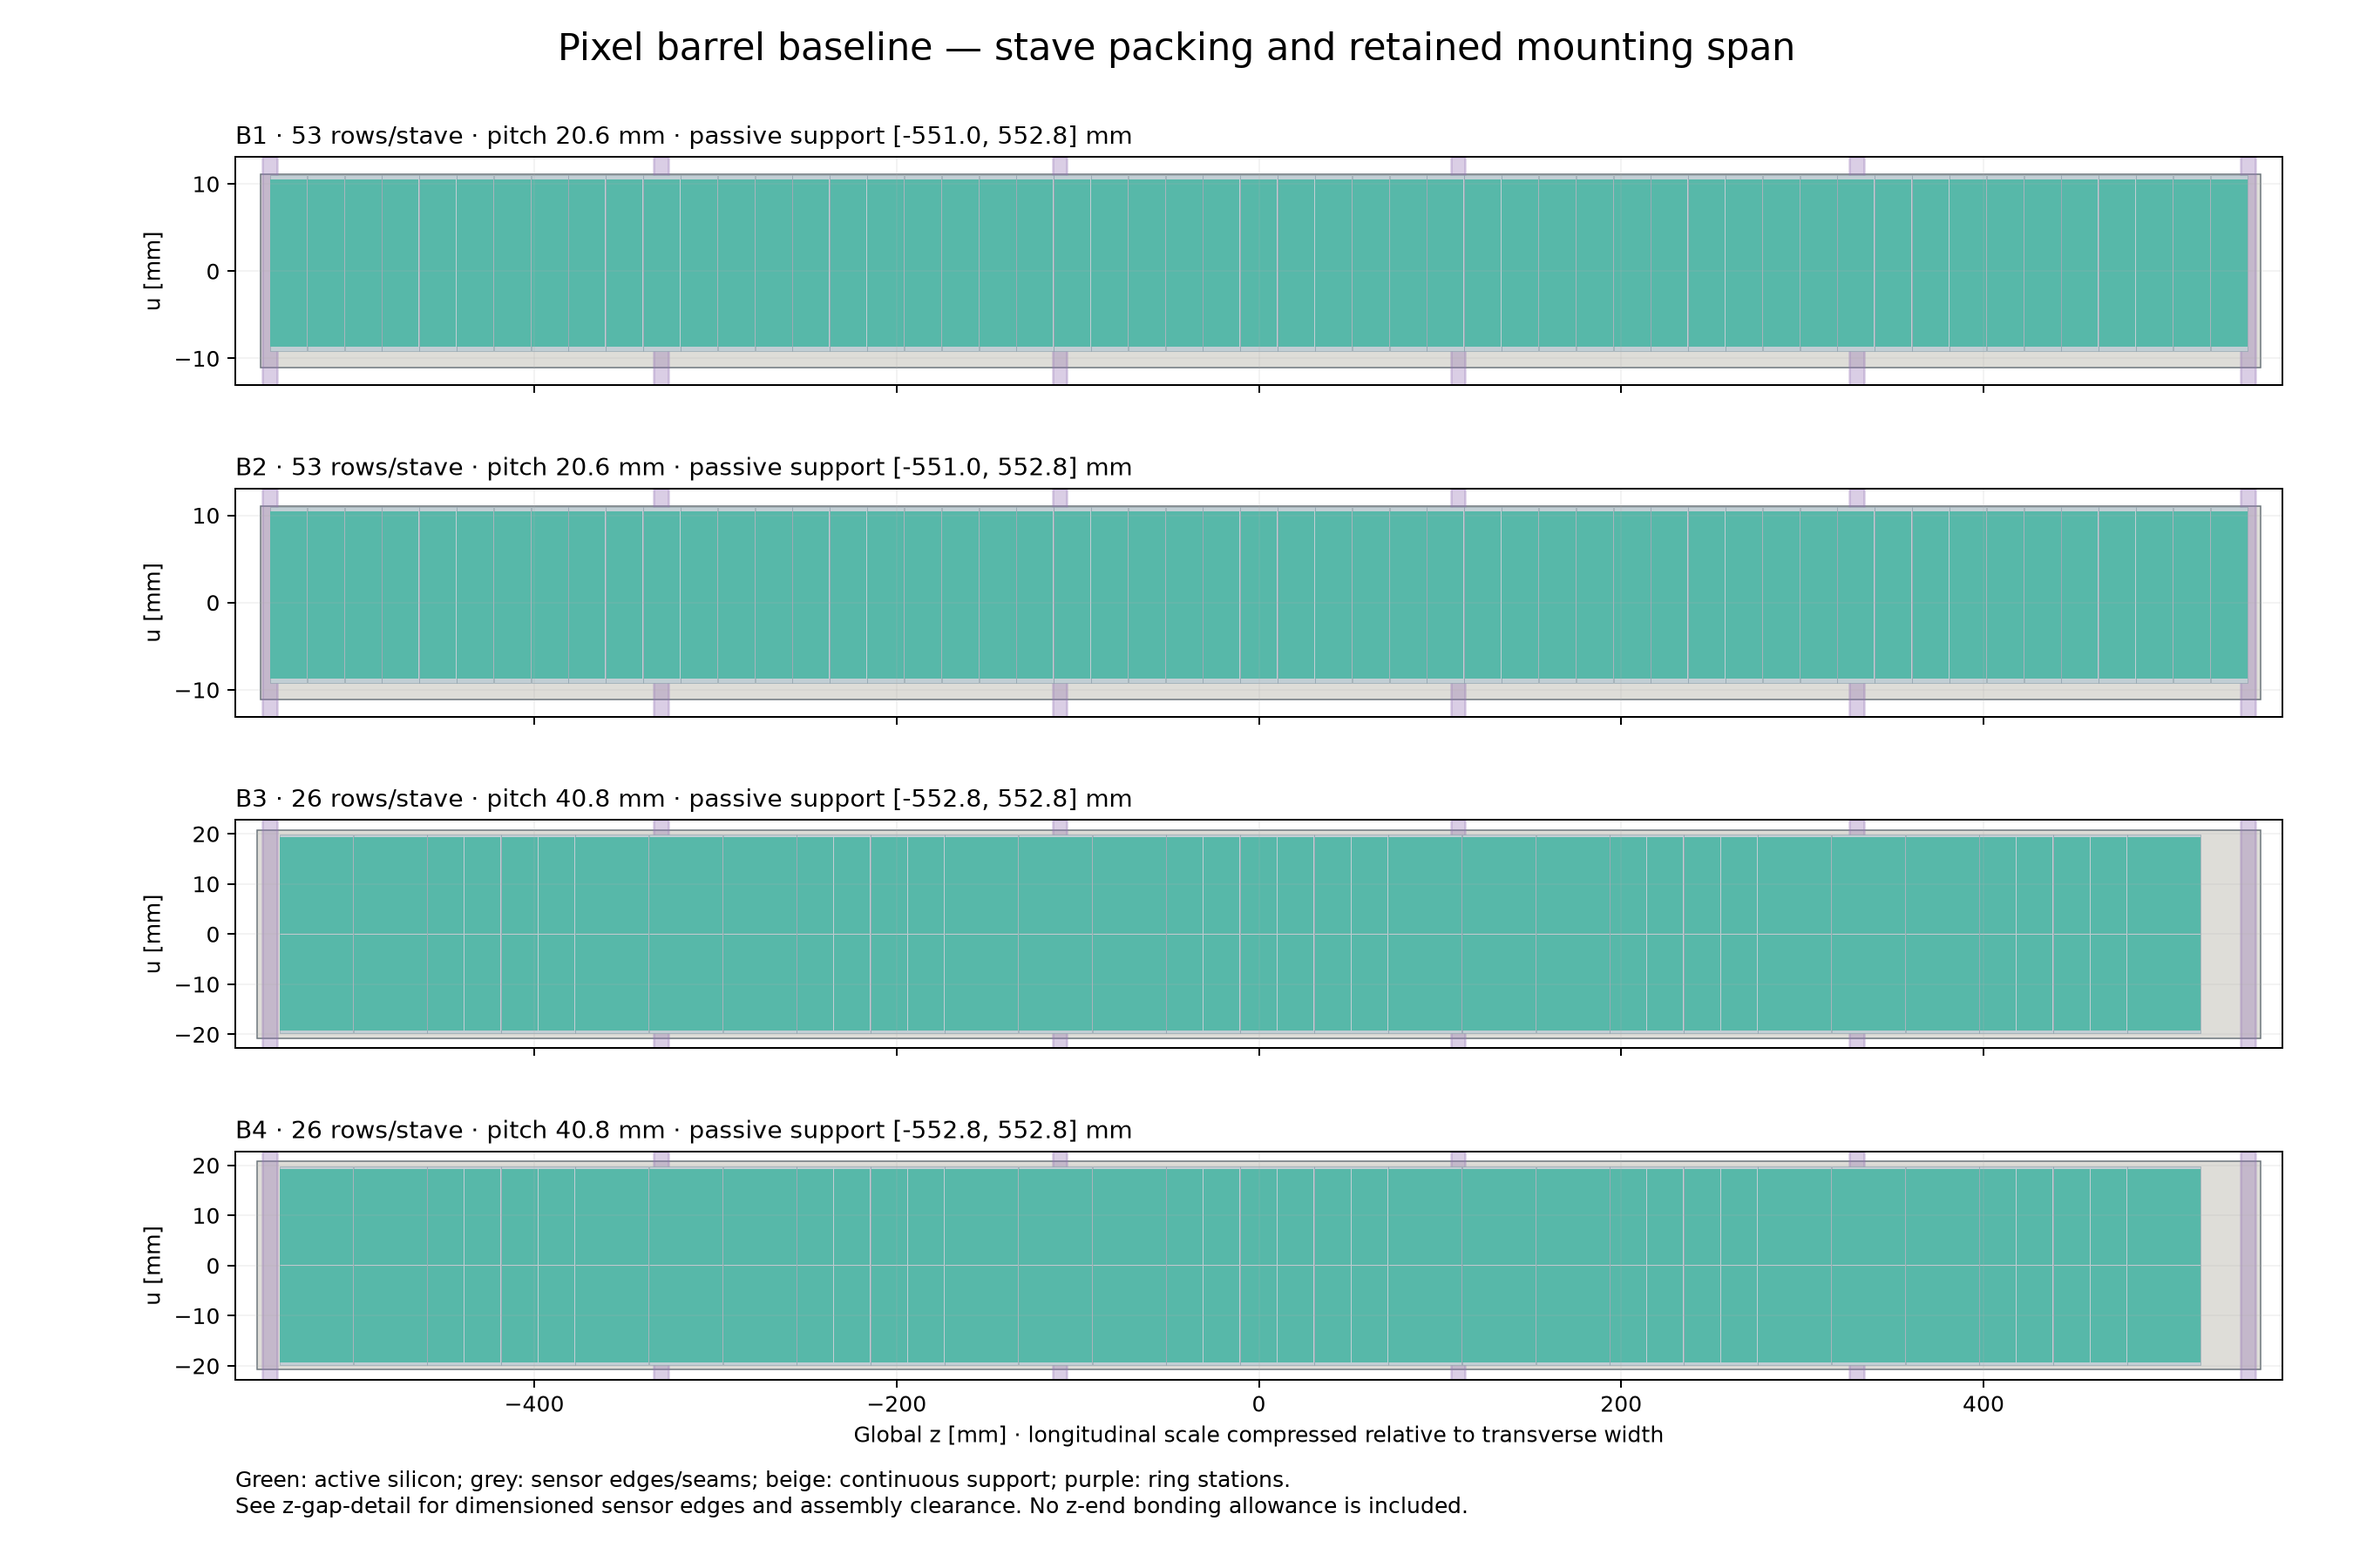
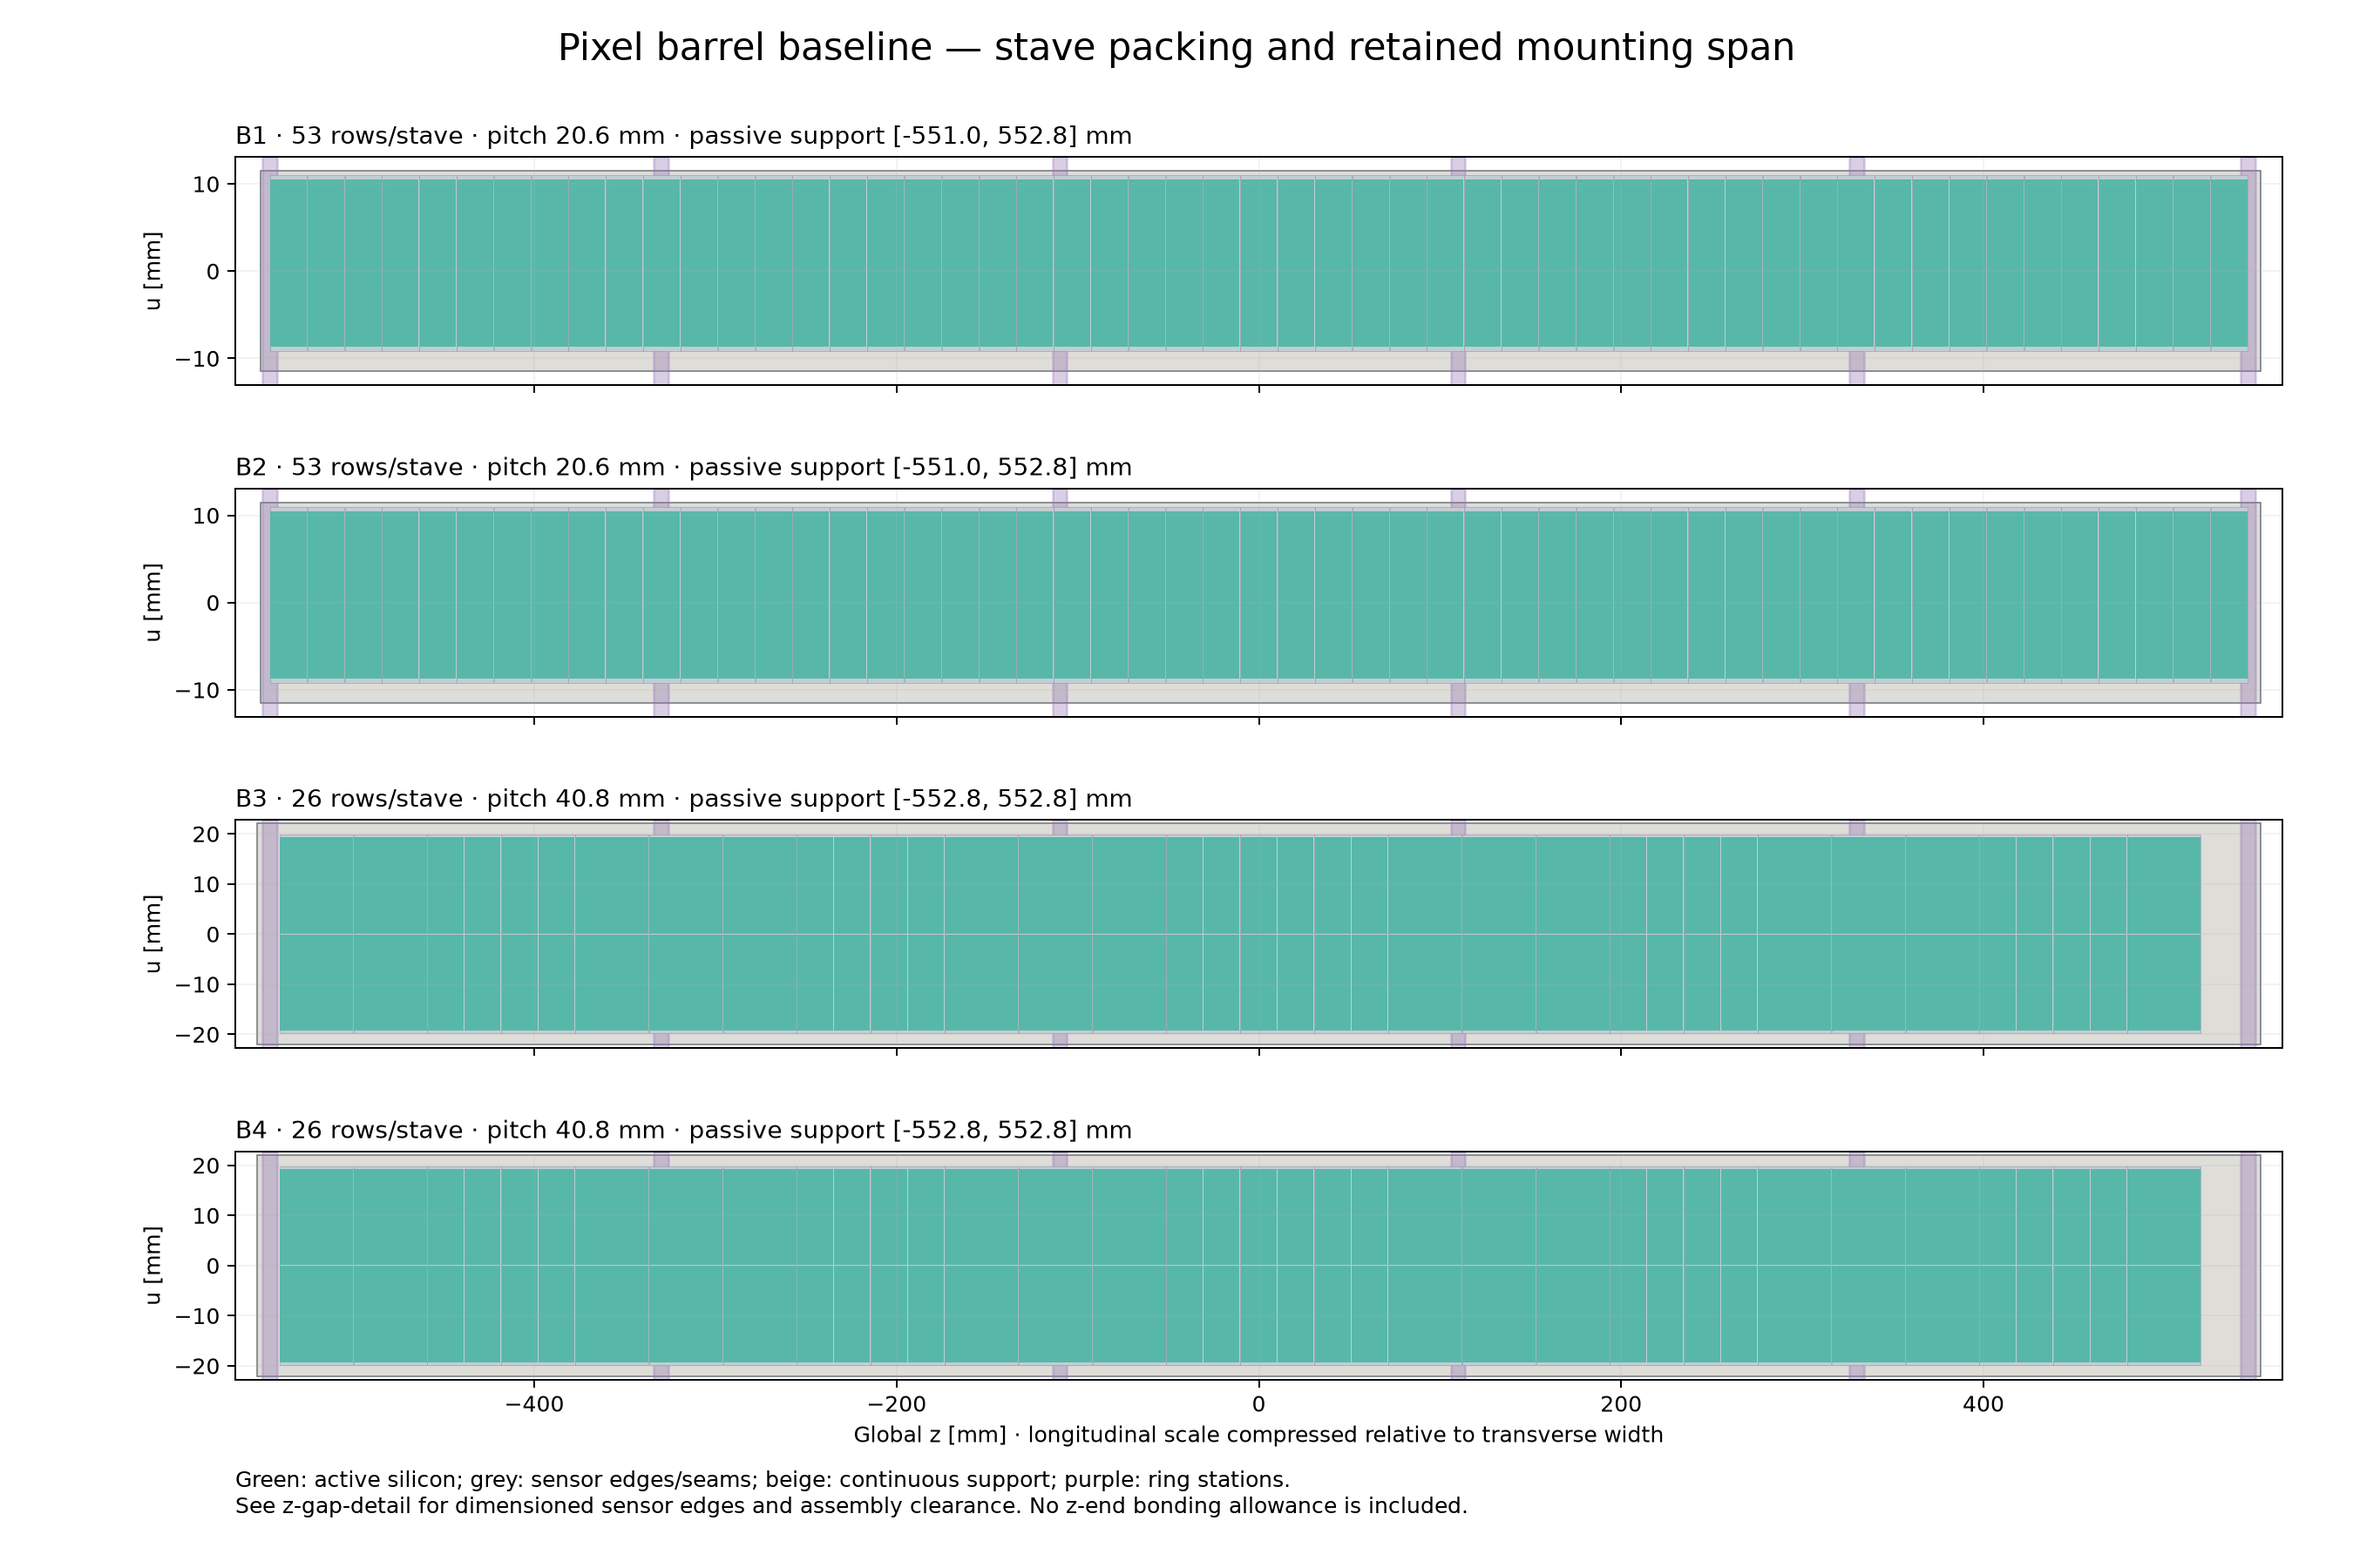
Tracker: Draw exact stave slab widths and record successful CI

diff --git a/tools/pixel_barrel_dd4hep/drawings.py b/tools/pixel_barrel_dd4hep/drawings.py
@@ -98,7 +98,8 @@ def draw(compact,output):
     for layer,ax in zip(root.findall('.//detector/layer'),axes):
         stave=layer.find('stave');ms=stave.findall('module');sensor=ms[0].find('sensor');half=val(sensor,'width')/2
         support=stave.find('slab');length=val(stave,'length');cy=val(support,'center_y')
-        ax.add_patch(Rectangle((cy-length/2,-half-1),length,2*half+2,fc='#deddd8',ec='#6b747b',lw=.6))
+        support_width=val(support,'width')
+        ax.add_patch(Rectangle((cy-length/2,-support_width/2),length,support_width,fc='#deddd8',ec='#6b747b',lw=.6))
         for ring in layer.findall('ring'):
             z=val(ring,'z');t=val(ring,'length');ax.axvspan(z-t/2,z+t/2,color='#9575b5',alpha=.35)
         for m in ms:

diff --git a/logs/codex/SESSION-2026-10-01-pixel-barrel-implementation.md b/logs/codex/SESSION-2026-10-01-pixel-barrel-implementation.md
@@ -97,3 +97,7 @@ Implementation commits: `8a09567f89c9a1ce2f9eebeb4a101ceb6c4f08f3` and
 Original checkout changes were rechecked and preserved. Git write/network sandbox
 failures were retried with the explicit execution permission mechanism; no history
 was rewritten. Full-change whitespace validation passes after SVG normalization.
+
+Final visual closeout uses the exact compact slab width for the stave-packing
+support band (23/44.2 mm), replacing a visual margin derived from sensor width.
+Drawing sheets and manifests were regenerated; detector geometry is unchanged.
